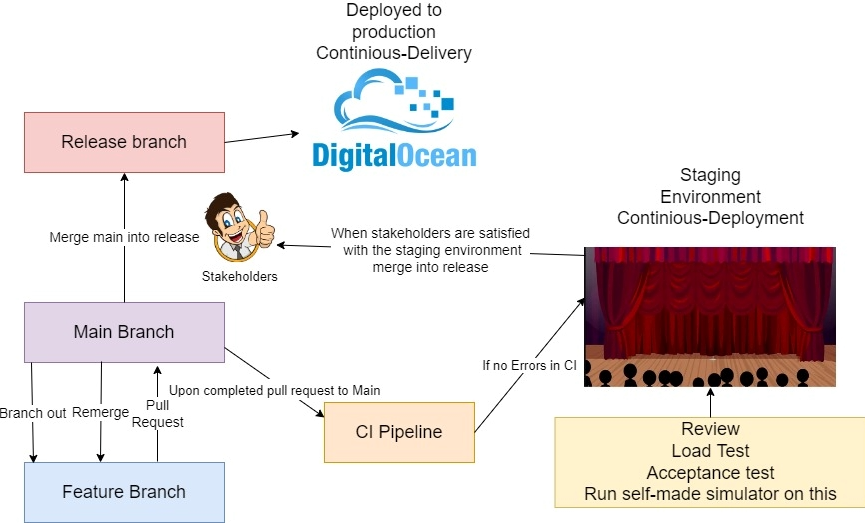
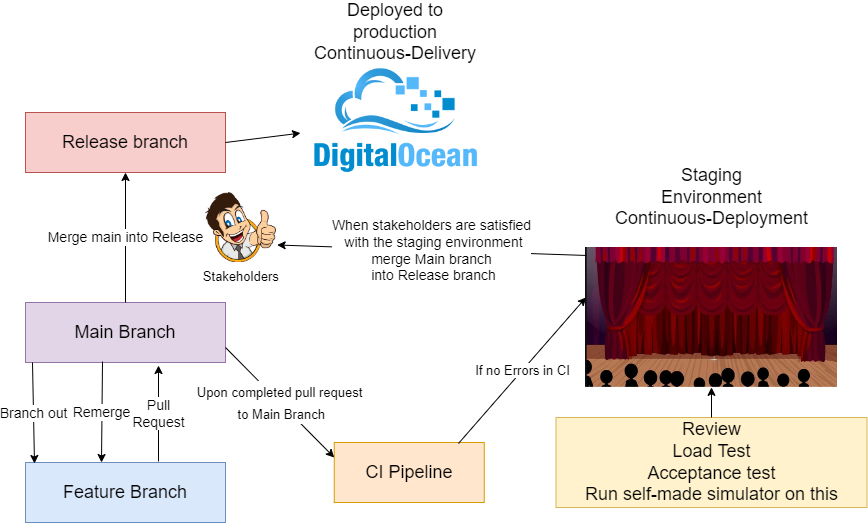
updated report

diff --git a/report/process_perspective/heading_2/ci_cd_chain.tex b/report/process_perspective/heading_2/ci_cd_chain.tex
@@ -1,27 +1,30 @@
 \subsection{CI/CD}
 \label{cicd:label}
 
-This section will clarify choices and reflections of the system pipeline [TO DO : Insert link to: \url{https://github.com/JesperRusbjerg/minitwit_BE/blob/main/.travis.yml}]. The technology choice for our pipeline was Travis CI. The technology is easily integratable with Github, making it easy to get it up and running. Before the pipeline executes each stage, it sets up the environment: Stating that it is a Csharp project, a version of dot net. Followed by setting up sonar cloud for maintenance checking, which branches to build on, setting up SSH, installing docker \& node and finally declaring the stages the pipeline should complete concluding a successful build.
+This section will clarify choices and reflections of the system pipeline~\cite{travis}. The technology choice for our pipeline was Travis CI. The technology is easily integratable with Github, making it easy to get it up and running. Before the pipeline executes each stage, it sets up the environment: Stating that it is a Csharp project, a version of dot net. Followed by setting up sonar cloud for maintenance checking, which branches to build on, setting up SSH, installing docker \& node and finally declaring the stages the pipeline should complete concluding a successful build.
 
 \subsubsection*{Pipeline stages}
 
 \begin{enumerate}
-  \item[1.] build\_and\_unittest\_analysis: Builds the project, ensures no static analysis errors. Runs all the unit tests in the system. If successful, runs sonar cloud scan for vulnerabilities and evaluates the code quality etc, which the team can inspect.
+  \item[1.] build\_and\_unittest\_analysis: Builds the project, ensures no static analysis errors. Runs all the unit tests in the system. If successful, runs sonar cloud scan for vulnerabilities and evaluates the code quality, which the team can inspect.
   \item[2.] docker\_build: Builds the docker image and pushes it to DockerHub.
-  \item[3.] docker\_scan\_containers: SSH's into the Digital Ocean server pulls+scans the previously created docker image. If any critical vulnerability is found in the script will fail the build.
-  \item[4.] deploy: This stage only happens if code is pushed to the team's "release branch" this acts as continuous delivery[ADD REFERENCE: Refer to Devops Handbook chapter Survey of Continuous Delivery in Practice, page 211]. We only manually integrate push to the release branch after reviewing the builds completed in the main branch. The stage ssh's into the server, pulls the most recent images and redeploys the docker containers.
+  \item[3.] docker\_scan\_containers: SSH's into the Digital Ocean server, pulls and scans the previously created docker image. If any critical vulnerability is found,  the script will fail the build.
+  \item[4.] deploy: This stage only happens if code is manually pushed to the team's "release branch" this acts as continuous delivery~\cite{devOpsHandbookCD}. We only manually integrate push to the release branch after reviewing the builds completed in the main branch. The stage ssh's into the server, pulls the most recent images and redeploys the docker containers.
 \end{enumerate}
 
 \subsubsection*{Pipeline reflections}
 
-If we were to further develop on the systems pipeline, the team would add a "staging environment" to further test the system before releasing to production as seen in figure[INSERT FIGURE REFERENCE]:
+If we were to further develop on the systems pipeline, the team would add a "staging environment" to further test the system before releasing to production as seen in Figure~\ref{fig:pipeline}:
 
-\begin{center}
-\includegraphics[width=12cm, height=8cm]{images/image.PNG}
-\end{center}
+\begin{figure}[h]
+    \centering
+    \includegraphics[width=0.8\textwidth]{images/image.PNG}
+    \caption{{Staging environment pipeline.}}
+    \label{fig:pipeline}
+\end{figure}
 
-The branching strategy as previously in discussed section[INSERT SECTION] remains intact. Upon completion of a newly implemented feature and a approved build state from the CI pipeline, the infrastructure "Continiously Deploys" the new version of the system into a staging environment. In this environment the team will run acceptence tests, review the code and run load tests in order to see if we are compliant with the requirements of the simulator. When sufficient testing has been done of the system, the team will merge the main branch into the release branch triggering the "Continious Delivery", which will deploy the delivery to production. As a potential last edition to the pipeline, the team has considered building its own simulator which would run against the staging environment in order to simulate the real world, this would further enhance the chances of no errors occouring once deployed to production. In general, creating the staging environment will result in the users of the frontend experiencing less errors as the system is tested more thoroughly and the simulator would detect no errors, granted that our tests in the staging environment are sufficient.\\ 
+The branching strategy as previously discussed in Section~\ref{branching:label} would remain intact. Upon completion of a newly implemented feature and a approved build state from the CI pipeline, the infrastructure would "Continuously Deploy" the new version of the system into a staging environment. In this environment the team would run acceptance tests, review the code and run load tests in order to see if we were compliant with the requirements of the simulator. When sufficient testing has been done of the system, the team would merge the main branch into the release branch triggering the "Continuous Delivery", which would deploy the delivery to production. As a potential last edition to the pipeline, the team has considered building its own simulator which would run against the staging environment in order to simulate the real world, this would further enhance the chances of no errors occurring, once deployed to production. In general, creating the staging environment should result in the users of the frontend experiencing less errors as the system is tested more thoroughly, and the simulator would detect no errors, granted that our tests in the staging environment are sufficient.\\ 
 
-We conclude that the pipeline has been successful. It is the backbone of the DevOps infrastructure in our system. However, the team did experience some troubles with Travis CI, which would make the team consider other technologies in future projects. Travis CI used more credits than first anticipated which is a problem as the team is on low funding. In addition to the credits, connecting to remote servers was troublesome in Travis. All of the functionality works with Travis, but if we were to implement it again the team would have chosen Jenkins or Github actions, which are two very popular CI/CD tools. Jenkins seemed of most interest as it is decoupled from our Version Control server, and we are able to host it ourselves, which means we are not vendor-bound in any way.\\
+We conclude that the pipeline has been successful. It is the backbone of the DevOps infrastructure in our system. However, the team did experience some troubles with Travis CI, which would make the team consider other technologies in future projects. Travis CI used more credits than first anticipated, which is a problem as the team is on low funding. In addition to the credits, connecting to remote servers was troublesome in Travis. All of the functionality works with Travis, but if we were to implement it again the team would have chosen Jenkins or Github actions, which are two very popular CI/CD tools. Jenkins seemed of most interest as it is decoupled from our Version Control server, and we are able to host it ourselves, which means we are not vendor-bound in any way.\\
 
-If our DevOps skills were to improve further, creating the staging environment could become redundant: the systems CI pipeline could potentially fully automate spinning up a temporary staging-environment-server and running load tests and acceptance tests automatically.
+If our DevOps skills were to improve further, creating the staging environment could potentially become redundant: the systems CI pipeline could potentially fully automate spinning up a temporary staging-environment-server, running load tests and acceptance tests automatically. This would however require much experimenting and refinement. Therefore, the team concludes that starting with the staging environment would still be a good first step, in order to improve the pipeline.

diff --git a/report/process_perspective/heading_2/development_process_tools.tex b/report/process_perspective/heading_2/development_process_tools.tex
@@ -2,10 +2,10 @@
 
 %Our process was in a form of iterative agile software development without any specific name. We adopted overall agile principles and made them work for our use case. When it comes to the workflow a Trello (Kanban) board was a central point of it. It was divided into 4 major sections: Backlog, Doing, In-review, and done. Later the done section evolved and was split, having a separate section for each week to give a better overview of completed tasks. Regarding task derivation, refinement/alignment, and assignment, we had a dedicated timeslot for that each Tuesday after the DevOps class. During these sessions, we made sure that all of us knew the scope of work, we understood exactly what the tasks entail, and that everyone had at least one responsibility until the next time. As previously mentioned, we would often work in a group of two, providing each other with continuous feedback and learnings. The following week, we would pitch our work on the weekly standups, explaining it to everybody and collecting feedback for possible improvements. If any of them were proposed, we would reiterate the task and finish it by Sunday. It was when we would usually make releases and deploy new changes to “production”, following a procedure described in “Deployment pipelines”.
 
-Our process was in a form of iterative agile software development (1 week sprint duration). We adopted “The three ways of working” initially used both in The Phoenix Project and The DevOps Handbook, as well as overall agile principles and tailored them for the needs of our project~\cite{devOpsHandbook}.
+Our process was in a form of iterative agile software development (1 week sprint duration). We adopted “The three ways of working” initially used both in The Phoenix Project~\cite{phoenixProject} and The DevOps Handbook~\cite{devOpsHandbook3W}, as well as overall agile principles and tailored them for the needs of our project.
 
-When it comes to the \textbf{\textit{'1. Flow'}}, Trello (Kanban) board was a central point of it. It was divided into 4 major sections: Backlog, Doing, In-review, and done (later divided into weeks). Regarding task derivation, refinement/alignment, and assignment, we had a dedicated timeslot for that each Tuesday after the DevOps class. During these sessions, we made sure that all of us knew the scope of work, we understood exactly what the tasks entail, and that everyone had at least one responsibility until the next time. 
+When it comes to the \textbf{\textit{'1. Flow'}}, Trello (Kanban) board was a central point of it. It was divided into 4 major sections: Backlog, Doing, In-review, and done (later divided into weeks). Task derivation, refinement, and assignment had a dedicated timeslot on each Tuesday, after the DevOps class. During these sessions, we made sure that all of us knew the scope of work, understood exactly what the tasks entailed, and that everyone had at least one responsibility until the next time. 
 
-We would often work in a group of two, fostering \textbf{\textit{'3. Continuous learning and Experimentation'}}. Problems were discussed and tackled together by the group as everyone represented a growth mindset. It was important for us to continuously push and improve upon the infrastructure while challenging ourselves. Moreover, for the experimentation part, we have treated the frontend with similar practices before applying it to backend - as an initial sandbox. This settled ground understanding of the exploited technology and revealed few issues prior risking backend crushing down.
+We would often work in a group of two, fostering \textbf{\textit{'3. Continuous learning and Experimentation'}}. Problems were discussed and tackled together by the group as everyone represented a growth mindset. It was important for us to continuously push and improve upon the infrastructure while challenging ourselves. Moreover, as experimentation, we have treated the frontend as an initial sandbox with similar practices before applying them to the backend. This settled ground understanding of the exploited technology and revealed few issues prior risking backend crushing down.
 
-The following week, we would pitch our work on the weekly standups, explaining it to everybody and collecting \textbf{\textit{'2. Feedback'}} for possible improvements, complementary to pull request reviews and automatic CI pipeline tests/scans. If any of them were proposed, we would reiterate the task and finish it by Sunday. It was when we would usually make manual releases and deploy new changes to “production”, following a procedure described in “\nameref{cicd:label}”.
+The following week, we would pitch our work on the weekly standups, explaining it to everybody and collecting \textbf{\textit{'2. Feedback'}} for possible improvements, complementary to pull request reviews and automatic CI pipeline tests/scans. If any of them were proposed, we would reiterate the task and finish it by Sunday. Sunday was when we would usually make manual releases and deploy new changes to “production”, following a procedure described in Section~\ref{cicd:label}.

diff --git a/report/systems_perspective/heading_2/state_of_system.tex b/report/systems_perspective/heading_2/state_of_system.tex
@@ -1,6 +1,6 @@
 \subsection{State of System}\label{stateofsystem}
 
-In this section the report discusses the current state of the system in terms of curriculum's and personally imposed requirements fulfillment - both functional and non-functional. 
+In this section the report discusses the current state of the system in the fulfillment of the curriculum's and personally imposed requirements, both functional and non-functional. 
 
 
 \input{systems_perspective/heading_3/non functional}
@@ -8,14 +8,24 @@ The non-functional requirements are derived from the curriculum, generic require
 
 \begin{enumerate}[noitemsep]
   \item Maintainability through scanning project using Sonarcloud.
-  \item 2 static analysis nugget packages "AsyncFixer", "SonarAnalyzer".
+  \item 2 static analysis NuGet packages "AsyncFixer", "SonarAnalyzer".
   \item Scanning docker containers for vulnerabilities.
   \item The project must pass all test cases.
 \end{enumerate}
 
-Sonarcloud, a maintenance tool detecting technical debt and known security vulnerabilities, sonarcloud has continuously helped the team find security vulnerabilities and insufficient code. If the project was to further develop, there are still code smells remaining to fix to lower any technical debt further.\\ \includegraphics[width=14cm, height=6cm]{images/sonarscan.PNG}\\ The current ratings has reassured the team that the practices agreed upon are held up and implemented rather correctly. The team aimed to structure the codebase using SE practices such as interface programming code, low cyclomatic complexity, single responsibility, low couplings, and high cohesion. It was essential to write structured code in case changes occurred. As for static analysis, the project would fail its build, if the analyzers found any flaws. The "AsyncFixer" package finds flaws in async calls, which would be a good addition to this REST-API project. The "SonarAnalyzer" spots apparent bugs and known security vulnerabilities. The project cannot build if either of the analyzers detect any issues. 
+Sonarcloud — a maintenance tool detecting technical debt and known security vulnerabilities — has continuously helped the team find security vulnerabilities and insufficient code. If the project was to further developed, there were still code smells remaining to fix to lower any technical debt.
+
+\begin{figure}[h]
+    \centering
+    \includegraphics[width=0.8\textwidth]{images/sonarscan.PNG}
+    \caption{SonarCloud scan dashboard.}
+    \label{fig:scanCode}
+\end{figure}
+
+The current ratings has reassured the team that the practices agreed upon are held up and implemented rather correctly. The team aimed to structure the codebase using SE practices such as interface programming code, low cyclomatic complexity, single responsibility, low couplings, and high cohesion. It was essential to write structured code in case changes occurred. As for static analysis, the project would fail its build, if the analyzers found any flaws. The "AsyncFixer" package finds flaws in async calls, which would be a good addition to this REST-API project. The "SonarAnalyzer" spots apparent bugs and known security vulnerabilities. The project can not build if either of the analyzers detect any issues. 
+
 \vspace{3mm}
 
-In addition to the analyzers, the docker containers get scanned using "docker scan" prior to any deployments and any build containing a "critical vulnerability". The team wrote a regex script\cite{script} that analyzed the docker scan's output to accomplish this feature. Lastly, the project must also pass all unit tests. The project currently contains 27 test cases, but the test suite should be improved and more thorough, if the project is to become a real-world application. The team felt the importance of test cases to ensure functionality does not break when implementing new features or trying to optimize the code.
+In addition to the analyzers, the docker containers get scanned using "docker scan" prior to any deployments and stops any build containing a "critical vulnerability". The team wrote a regex script that analyzed the docker scan's output to accomplish this feature~\cite{dockerScanner}. Lastly, the project must also pass all unit tests. The project currently contains 27 test cases, but the test suite should be improved and be more thorough, if the project is to become a real-world application. The team felt the importance of test cases to ensure no functionality breaks when implementing new features or trying to optimize the code.
 
 \input{systems_perspective/heading_3/functional}

diff --git a/report/systems_perspective/heading_2/license.tex b/report/systems_perspective/heading_2/license.tex
@@ -1,8 +1,8 @@
 \subsection{License}
 
-The choice upon license choice was concluded with the election of GNU General Public License v3.0 for both front- and backend applications.
+The choice of licenses was concluded with the election of GNU General Public License v3.0 for both front- and backend applications.
 
-First, the dependencies were collected along with their licenses into json files by using NPM License Checker and  a .NET utility tool~\cite{NPMLicenseChecker}~\cite{nugetLicense}.
+First, the dependencies were collected along with their licenses into json files~\cite{licensesJsonFrontend}~\cite{licensesJsonBackend} by using NPM License Checker and  a .NET utility tool~\cite{NPMLicenseChecker}~\cite{nugetLicense}.
 
 Results can be created by the following commands respectively:
 
@@ -19,10 +19,10 @@ dotnet-project-licenses -i `<path-of-project>` -u -o -j
 
 \end{itemize}
 
-Regarding the frontend, only one dependency seemed alarming at first glance, which was the \texttt{node-forge} package~\cite{nodeForge}. Its license is BSD-3-Clause OR GPL-2.0. SonarAnalyzer. CSharp was concerning on the backend side as it has LGPL-3.0-only license~\cite{sonarlint}. Both of these discoveries contained a form of a protective license, hence the caution on our side. However, the source code does not contain derivative work of the library. It is designed to work with it, so it falls outside the scope of the protective licenses.
+Regarding the frontend, only one dependency seemed alarming at first glance, which was the \texttt{node-forge} package~\cite{nodeForge}. Its license is BSD-3-Clause OR GPL-2.0. SonarAnalyzer.CSharp package was concerning on the back-end side as it has LGPL-3.0-only license~\cite{sonarAnalyzerCSharp}. Both of these discoveries contained protective licenses, hence the caution on our side. However, the source code does not contain derivative work of the library. It is designed to work with it, so it falls outside the scope of these protective licenses.
 \vspace{3mm}
 
-Additionally, we have used ScanCode-toolkit to scan the two projects~\cite{scanCodeToolkit}. The results were parsed into json files that could be fed into ScanCode-Workbench - a visual application detailing the contained licenses, copyrights with different charts and diagrams~\cite{scanCodeWorkbench}.
+Additionally, we have used ScanCode-Toolkit to scan the two projects~\cite{scanCodeToolkit}. The results were parsed into json files that could be fed into ScanCode-Workbench - a visual application detailing the contained licenses, copyrights with different charts and diagrams~\cite{scanCodeWorkbench} as can be seen on the figure ~\ref{fig:license}.
 
 \begin{figure}[h]
     \centering
@@ -31,7 +31,7 @@ Additionally, we have used ScanCode-toolkit to scan the two projects~\cite{scanC
     \label{fig:license}
 \end{figure}
 
-JSON files can be generated by the command below, assuming ScanCode-Toolkit is installed: \\
+JSON files can be generated by the command below, assuming ScanCode-Toolkit is installed:
 
 \begin{verbatim}
 `<path-to-scancode | ./scancode on Windows>` -clpeui -n 2 --json-pp 
@@ -43,10 +43,10 @@ JSON files can be generated by the command below, assuming ScanCode-Toolkit is i
 Eventually, we wanted our software to have:
 
 \begin{itemize}[noitemsep]
-    \item the freedom to use it for any purpose,
-    \item the freedom to change it to suit needs,
-    \item the freedom to share it
-    \item the freedom to share the changes made
+    \item the freedom to be used for any purpose,
+    \item the freedom to be changed to suit needs,
+    \item the freedom to be shared,
+    \item the freedom for changes to be shared.
 \end{itemize}
 
 By using GPL v3, we make sure that this freedom is also protected in derivative works as well. Additionally, it includes an explicit grant of patent rights, which protects against potential patent trolling.

diff --git a/report/systems_perspective/heading_3/functional.tex b/report/systems_perspective/heading_3/functional.tex
@@ -1,13 +1,13 @@
 \subsubsection*{Functional}
 
-The functional requirements can described as its  the ability support the functionality of the frontend, together with minimized error-responses from simulator requests.
+The functional requirements can be described as it is the ability to support the functionality of the frontend, together with minimized error-responses from simulator requests.
 \vspace{3mm}
 
 \underline{Frontend}
 
-All required functional requirements are implemented in the frontend: the user can follow, twit, delete twits, and show the main page. However, a contract between the frontend and backend could have been beneficial. It occurred that changes had to be made multiple times to get everything working flawlessly. A contract is a powerful tool to settle expectations from both front- and backend, which makes it easy to implement the adjustments according to precise specification of requirements with no confusion.
+All required functional requirements are implemented in the frontend: users can follow, twit, delete twits, and observe the main page. However, a contract between the frontend and backend could have been beneficial. It occurred that changes had to be made multiple times to get everything working flawlessly. A contract is a powerful tool to settle expectations from both front- and backend, which makes it easy to implement adjustments according to precise specification of requirements with no confusion.
 \vspace{3mm}
 
 \underline{Simulator}
 
-The simulator was returning errors for few weeks. Initially, the implemented functionality was incorrect. Progress occurred as the team implemented a simple logging system on DO, which enabled to analyze different status codes. Once the status codes were correctly implemented, a new problem arose; the database did not contain all the simulator's users due to the backend mishandling user registration initially. The lack of users resulted in continuous errors as the simulator expected them to be present. To stop the errors, a SQL dump was requested from another group, followed by a creation of a script that translated the data into JSON objects. This data was then sent to our API one at a time through post requests. Upon completion, the simulator stopped detecting errors. Towards the end, the simulator began detecting "Read timeouts", which we overcame by scaling the project using Docker Swarm. Eventually, the simulator requirements were fulfilled.
+The simulator was returning errors for a few weeks. Initially, the implemented functionality was incorrect. Progress occurred as the team implemented a simple logging system on our Digital Ocean server, which enabled the team  to analyze the errors/status codes. Once the status codes were correctly implemented, a new problem arose; the database did not contain all the simulator's users due to the backend mishandling initial user registrations. The lack of users resulted in continuous errors as the simulator expected them to be present. To stop the errors, a SQL dump was requested from another group, followed by a creation of a script that translated the data into JSON objects. This data was then sent to our API one at a time through post requests. Upon completion, the simulator stopped detecting errors. Towards the end, the simulator began detecting "Read timeouts", which we overcame by scaling the project using Docker Swarm. Eventually, the simulator requirements were fulfilled.

diff --git a/report/process_perspective/heading_2/scaling_load_balancing.tex b/report/process_perspective/heading_2/scaling_load_balancing.tex
@@ -1,3 +1,3 @@
-\subsection{Scaling and Load Balancing and Redployment}
+\subsection{Scaling, Load Balancing and Redeployment}
 
-The system is built using the containerization tool "Docker" we had initially created a docker-compose file which can spin up all of our services on the server. In order to support scaling, the team created a swarm cluster by adding two new droplets to the server. The original server, which has the most significant amount of resources at its disposal, became the Manager+Leader of the swarm. This service hosts an instance of the backend, the database, and logging/monitoring. The two new servers, the "workers", are running an instance of the backend. In order to create the swarm, we turned our docker-compose file into a docker-stack file[GITHUB LINK  https://github.com/JesperRusbjerg/minitwit\_BE/blob/main/Minitwit\_BE/docker-swarm-compose.yml (Currently an empty file, but I will fix it, just link to that file)]. We are currently using docker-swarms standard load balancing. However, it is possible to implement an external load balancer such as a reverse proxy Nginx service, should the need for more control of load balancing arise. In terms of redeployment: Dockerswarm applies the Rolling deployment strategy by default; implementing canary or blue-green is possible but requires additional setup[ADD REFERNCE TO BIB AND REF IT HERE: https://opensource.com/article/17/5/colorful-deployments].
+The system is built using the containerization tool "Docker" we had initially created a docker-compose file~\cite{dockerComposeDefault} which can spin up all of our services on the server. In order to support scaling, the team created a swarm cluster by adding two new droplets. The original server, which has the most significant amount of resources at its disposal, became the Manager + Leader of the swarm. This service hosts an instance of the backend, the database, and logging/monitoring. The two new servers, the "workers", are running an instance of the backend. In order to create the swarm, we turned our docker-compose file into a docker-stack file~\cite{dockerCompose}. We are currently using docker-swarms standard load balancing. However, it is possible to implement an external load balancer such as a reverse proxy Nginx service, should the need for more control of load balancing arise. In terms of redeployment: Docker Swarm applies the Rolling deployment strategy by default; implementing canary or blue-green is possible but requires additional setup~\cite{colorfulDeployments}.

diff --git a/report/systems_perspective/heading_2/dependencies.tex b/report/systems_perspective/heading_2/dependencies.tex
@@ -1,6 +1,6 @@
 \subsection{Dependencies}
 
-The following table contains dependencies in the backend application and the date of their addition to the project. The topic of dependencies is also introduced in the Licenses section, where we have collected all the dependencies with their licenses by several tools. Those files can also be found on the GitHub repository\cite{githubrepo}.
+The following table contains dependencies in the backend application and the date of their addition to the project. The topic of dependencies is also touched upon in the Licenses section, where we have collected all the dependencies with their licenses by several tools.
 
 \newpage
 \begin{table}[h!]
@@ -135,11 +135,11 @@ The following table contains dependencies in the backend application and the dat
         \end{tabular}
     }
     
-    \caption{Back-end Dependencies}
+    \caption{Backend Dependencies.}
     \label{fig:backendDependencyTable}
 \end{table}
 
-{\color{red} \textbf{At this point in time I have yet to find a reliable tool that creates a graph for nuget packages}}
+The visualization of dependency assemblies ~\cite{backendDependencyGraph} has been made by an extension of Visual Studio Enterprise, called ndepend. ~\cite{ndepend} A dependency matrix ~\cite{backendDependencyMatrix} is also provided for analysis, where matrix header elements correspond to graph boxes, non-empty cells to graph arrows. ~\cite{ndependDependencyMatrixGuide}
 
 The following table contains dependencies in the frontend application and the date of addition to the project:
 
@@ -219,10 +219,10 @@ The following table contains dependencies in the frontend application and the da
       \bottomrule
     \end{tabular}
     
-    \caption{Front-end Dependencies}
+    \caption{Frontend Dependencies.}
     \label{fig:frontendDependencyTable}
 \end{table}
 
-The visualization of all the dependencies has been made by an online tool~\cite{packageLockVisualizer} and it has produced the following graph~\cite{frontendDependencyGraph}:
+The visualization of all the dependencies has been made by an online tool~\cite{packageLockVisualizer}, and it has produced the following graph~\cite{frontendDependencyGraph}:
 
 % \includegraphics[scale=0.05]{images/dependency_graphs/minitwit_fe_package_lock_graph.png}

diff --git a/report/systems_perspective/heading_3/c_and_c_view.tex b/report/systems_perspective/heading_3/c_and_c_view.tex
@@ -4,12 +4,12 @@
 The view displays high-level communication between the subsystems and how they should work as a whole. Connections are defined by various communication channels and their protocols.
 \vspace{3mm}
 
-Apart from the usual interaction of the browser, web and back-end application trio, the Docker Swarm component introduces few key interactions. The back-end application plays a key role as it queries resources from the database, while providing metrics via Serilog and DataDog Agent to the DataDog Logging Service. It also communicates with SonarQube - the Static Code Analysis tool in the form of analysis reports.System telemetries are gathered and envisioned with the interaction of Prometheus and Grafana. The metrics pulled from the back-end application by Prometheus are gathered by Grafana using PromQL. It is then displayed on dashboards to analyse those.
+Apart from the usual interaction of the browser, web and back-end application trio, the Docker Swarm component introduces a few key interactions. The back-end application plays a key role as it queries resources from the database, while providing metrics via Serilog and DataDog Agent to the DataDog Logging Service. System telemetries are gathered and visualized with the interaction of Prometheus and Grafana. The metrics pulled from the back-end application by Prometheus are gathered by Grafana using PromQL. It is then displayed on dashboards for analysis.
 \vspace{3mm}
 
 \begin{figure}[h!]
     \centering
     \includegraphics[width=\linewidth,height=\textheight,keepaspectratio]{images/architectural_views/minitwit_cc_view.png}
-    \caption{Component-and-Connector View ~\cite{componentAndConnectorView}}
+    \caption{Component-and-Connector View~\cite{componentAndConnectorView}.}
     \label{fig:ccview}
 \end{figure}

diff --git a/report/systems_perspective/heading_2/spinning_up_system.tex b/report/systems_perspective/heading_2/spinning_up_system.tex
@@ -3,6 +3,7 @@
 There are two possibilities to spin up the system:
 
 \begin{enumerate}
-  \item The vagrant file script in the "Minitwit\_BE/vagrantAutoDeploy" folder of GitHub repository can spin up a Digital Ocean server and automatically deploy all of the images from our dockerhub through the \texttt{docker-compose.yml} file. This is achived by adding a Digital Ocean auth token and running \texttt{vagrant up}.
-  \item In the "Minitwit\_BE/group\_m\_terraform" folder a terraform setup is located. It spins up three Digital Ocean servers. It creates a swarm cluster (1 manager, 2 workers) and deploys the system from the manager. To complete this setup the \texttt{secrets} file needs to be filled in. Then generate a fresh pair of ssh keys in the ssh\_key folder and finally run \texttt{bash bootstrap.sh}. When everything is complete a terminal printout of all relevant IPs is shown.
+  \item The vagrant file script in the "Minitwit\_BE/vagrantAutoDeploy" folder of GitHub repository can spin up a Digital Ocean server and automatically deploy all of the images from our DockerHub through the \texttt{docker-compose.yml} file~\cite{vagrant}~\cite{dockerComposeDefault}. This is achived by adding a Digital Ocean auth token and running \texttt{vagrant up}.
+  
+  \item In the "Minitwit\_BE/group\_m\_terraform" folder a terraform setup is located~\cite{terraform}. It spins up three Digital Ocean servers, creates a swarm cluster (1 manager, 2 workers) and deploys the system from the manager. To complete this setup, the \texttt{secrets} file needs to be filled in. Then, generate a fresh pair of ssh keys in the ssh\_key folder, and finally run \texttt{bash bootstrap.sh}. When everything is complete, a terminal printout of all relevant IPs is shown.
 \end{enumerate}

diff --git a/report/systems_perspective/heading_2/design_of_systems.tex b/report/systems_perspective/heading_2/design_of_systems.tex
@@ -1,6 +1,6 @@
 \subsection{Design and architecture of ITU-MiniTwit}
 
-The architecture is depicted through UML diagrams conforming to the 3+1 architecture model~\cite{drawio}. These are Module, Component-and-Connector and Allocation Views. Moreover, a Container Diagram is supplied to utilize the methodology of the C4model~\cite{c4model}. All graphs are contained in .xml files on the GitHub repository and can be reimported to the website to make future changes~\cite{architecturalViews}. The following list enumerates services embedded within the project, therefore included in the diagrams:
+The architecture is depicted through UML diagrams conforming to the 3+1 architectural description. These are Module, Component-and-Connector and Allocation Views. Moreover, a Container Diagram is supplied to utilize the methodology of the C4model~\cite{c4model}. All graphs are contained in .xml files on the GitHub repository and can be reimported to the website~\cite{drawio} to make future changes~\cite{architecturalViews}. The following list enumerates services embedded within the project, therefore included in the diagrams:
 
 \begin{itemize}[noitemsep]
     \item MiniTwit Vue.js Web Application
@@ -16,10 +16,10 @@ The architecture is depicted through UML diagrams conforming to the 3+1 architec
 Interactions among those is achieved with the support of the following technologies, frameworks, cloud providers and services:
 
 \begin{itemize}[noitemsep]
-    \item DigitalOcean
+    \item DigitalOcean (referred to as DO in later sections)
     \item Docker
     \item TravisCI
-    \item SonarQube
+    \item SonarCloud
     \item Snyk - Docker Scan
     \item DataDog web server
     \item Grafana Dashboard

diff --git a/report/lessons_learned_perspective/heading_2/operations.tex b/report/lessons_learned_perspective/heading_2/operations.tex
@@ -1,3 +1,3 @@
 \subsection{Operations}
 
-Creating the DevOps operations infrastructure has been much work for the team. However, there have not been any real roadblocks in implementing the DevOps functionality. There have been technologies that took a few days to get up and running, but the team has genreally not been behind schedule. Joint ownership, continuous feedback, and always helping each other have been vital criteria for why the team was never overwhelmed with the amount of workload. Each component that the team implemented helped develop the system, especially the logging implementation was vital to find system improvements when the simulator detected errors. In addition to the logging, the CI pipeline was a great help to ensure that our system did not regress as the weekly implementations were integrated into the main branch.
+Creating the DevOps operations infrastructure has been much work for the team. However, there have not been any real roadblocks in implementing the DevOps functionality. There have been technologies that took a few days to get up and running, but the team has generally not been behind schedule. Joint ownership, continuous feedback, and always helping each other have been vital criteria for why the team was never overwhelmed with the amount of workload. Each component that the team implemented helped develop the system, the logging implementation was especially vital to find system improvements when the simulator detected errors. In addition to the logging, the CI pipeline was a great help to ensure that our system did not regress as the weekly implementations were integrated into the main branch.

diff --git a/report/introduction.tex b/report/introduction.tex
@@ -1,0 +1,9 @@
+\section{Introduction}
+
+The paper attempts to detail the evolution of a legacy software that was taken over for four months. The following segments contain information about how the new system is designed, the process applied in making it, and key points learned.
+
+First, we present diagrams from different perspectives that help understanding the interactions of important system constituents and how they are allocated on deployment environments. Next, direct dependencies are listed along with their description and date of addition to the project. We provide two ways of initiating the system with the usage of a virtual machine environment management tool and infrastructure as code. The latter of the first section contains some metrics and observations about the current state of the system, and how we have come to the conclusion of selecting our licenses.
+
+Second, we detail the team's way of collaborating, the organization of the version control system and how the process relates to the Three Ways of working. Additionally, security assessment results are provided, and how monitoring and logging contributes to inspectable system telemetries. The last sections contain a thorough overview of the stages used in the CI/CD pipeline, how scaling is possible, as well as a future outlook of how these aspects can be improved.
+
+Finally, the last segment contains key items that proved to have significant impact on the delivery of the project, or aspects that might be vital to remember in the future.
